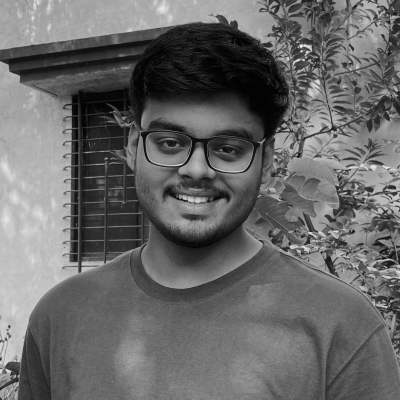
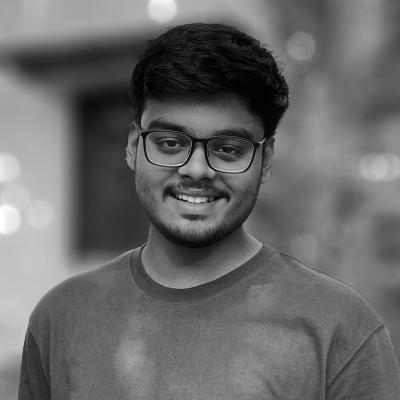
update Shiva Teja

diff --git a/_people/Students/Shiva.md b/_people/Students/Shiva.md
@@ -1,0 +1,28 @@
+---
+layout: single
+title:  Shiva Teja Banda
+position: Research Intern (BA	Multimedia & Gaming, Amity Univ.)
+role: "student"
+date: 20240108
+header:
+    teaser: /assets/img/people/imxd_people_shivateja.jpg
+permalink: /people/shivateja
+type: people
+modal : "no"
+modalname: "shivateja"
+fullpage: "no"
+links:
+    - label: "Email"
+      icon: "fas fa-fw fa-envelope-square"
+      url: "mailto:bandashivateja@gmail.com"
+    - label: "Artstation"
+      icon: "fab fa-fw fa-artstation"
+      url: "https://www.artstation.com/bstg"      
+    - label: "Linkedin"
+      icon: "fab fa-fw fa-linkedin"
+      url: "https://www.linkedin.com/in/bstg/"
+      
+---
+
+## Shiva Teja Banda
+Research Intern (BA	Multimedia & Gaming, Amity Univ.)
